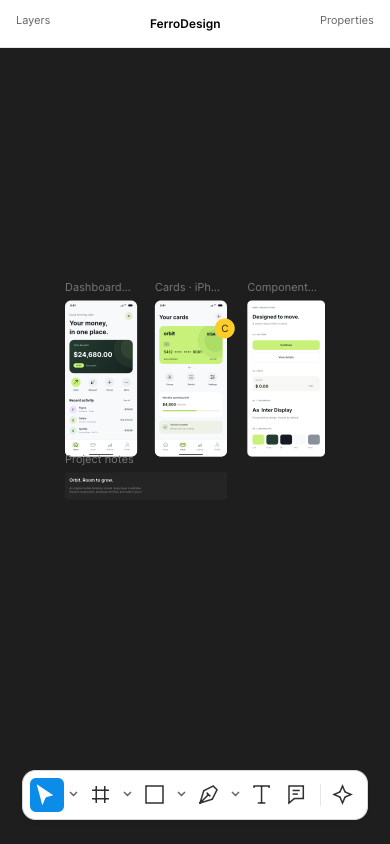
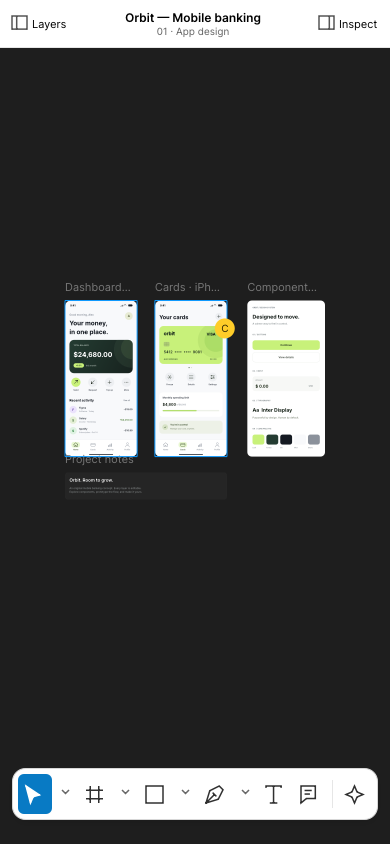
Show multi-selection and compact layer editing in the editor previews

diff --git a/docs/GUIDE.md b/docs/GUIDE.md
@@ -31,7 +31,7 @@ Vello is selected through FerroUI's public `BrowserPlatformOptions` and `VelloAp
 
 The initial document contains editable Orbit mobile banking screens, a component page, styles, variables, comments and a linked prototype. Click a layer on the canvas or in the left sidebar; the right sidebar edits the selected layer. Empty-canvas selection exposes the page background.
 
-The floating toolbar groups move, region, shape and drawing tools. Press **F6** from the canvas to focus the active tool. Use **←/→** to traverse the dock, **Home/End** for its ends, **↓** to open a tool family, and **Esc** to return to the canvas. Open the arrow next to a tool to see its alternatives. The main button remembers your last choice, including choices made with keyboard shortcuts. In windows narrower than 900 design pixels, the header shows the current document and page. Use **Layers** or **Inspect** to open a panel. Tap the shaded artboard, press **Esc**, or press the active button again to dismiss it. Frame and slice captions shorten as their artboards narrow. [390-pixel workspace](images/ferrodesign-compact.png)
+The floating toolbar groups move, region, shape and drawing tools. Press **F6** from the canvas to focus the active tool. Use **←/→** to traverse the dock, **Home/End** for its ends, **↓** to open a tool family, and **Esc** to return to the canvas. Open the arrow next to a tool to see its alternatives. The main button remembers your last choice, including choices made with keyboard shortcuts. In windows narrower than 900 design pixels, the header shows the current document and page. Use **Layers** or **Inspect** to open a panel. Tap the shaded artboard, press **Esc**, or press the active button again to dismiss it. Frame and slice captions shorten as their artboards narrow. [390-pixel workspace](images/ferrodesign-compact.png) · [Renaming in the Layers panel](images/ferrodesign-compact-layers.png)
 
 Click with a shape tool to place its default size, or drag to set its bounds. Hold **Shift** for a circle, square or line in 45° increments. **Alt/Option** draws from the center. Hold **Space** during a shape drag to reposition it. Draw inside an unlocked frame to create a child. Use **Shift+L** for an arrow and drag either endpoint to edit it. With the Text tool, a click starts auto-sizing text and a drag defines a fixed text box.
 

diff --git a/README.md b/README.md
@@ -6,7 +6,7 @@ browser (WebAssembly): the same editor, controls, document model and scene rende
 
 **Open it in the browser:** https://ferroui.github.io/FerroDesign/
 
-![FerroDesign scaling a selected banking screen with the nine-point anchor inspector](docs/images/ferrodesign-editor.png)
+![FerroDesign inspecting two selected banking screens with shared and mixed property values](docs/images/ferrodesign-editor.png)
 
 The editor has pages and layers, an infinite canvas, layout guides, editable vector networks, rich text
 with paragraph formatting, image cropping, effects and masks, continuous corners, variable-width
